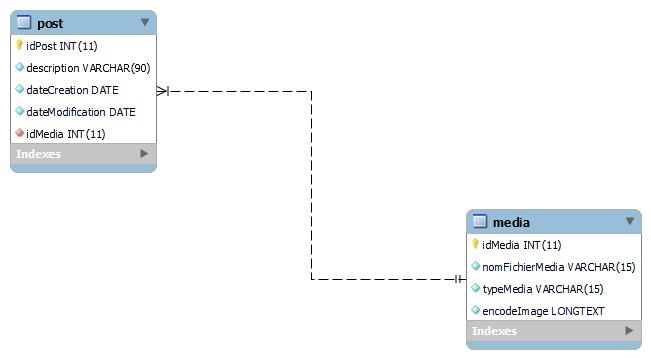
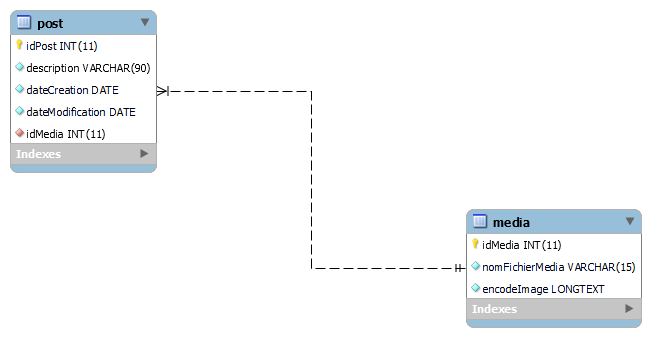
13.02.23

diff --git a/m152/chapitre2/functions.php b/m152/chapitre2/functions.php
@@ -76,7 +76,7 @@ function getAllPosts()
  * @param string $nom nom du budget
  * @param int $montant montant du budget
  */
-function addPost($description, $dateCreation, $idMedia)
+function addPost($description, $dateCreation)
 {
 
     $sql = "INSERT INTO `portfolio_img`.`post` (`description`,`dateCreation`) 
@@ -116,25 +116,23 @@ function deletePost($idPost)
 }
 
 /**
- * Sauvegarder une image pour un utilisateur donné sous forme de encodée 64bits
- *
- * @param string $InEmail 	L'email de l'utilisateur pour lequel on veut récupérer les images. 
- * @param binary $InContent Le contenu du fichier à sauvegarder
+ * Sauvegarder une image pour un utilisateur donné sous forme encodée 64bits
+ * @param string $image L'image que l'utilisateur à ajouter
  * @param string $InMimeType Le type mime du fichier à sauvegarder
- * @param string $InOriginalFilename Le nom original du fichier
+ * @param string $nomFichierMedia Le nom original du fichier
  * @return bool True si correctement sauvegardé, autrement False si une erreur est survenue
  * 
  * @remark Les images sont stockées directement dans un enregistrement de la base de données sous forme encodée 64bits
  */
-function SaveUserEnc64Image($, $InMimeType, $InOriginalFilename){
+function SaveUserEnc64Image($nomFichierMedia, $image , $InMimeType){
     // Insérer le contenu directement dans l'enregistrement de la base de données
-    $sql = "INSERT INTO `portfolio_img`.`media` (`nomFichierMedia`,`typeMedia`,`encodeImage`) VALUES(:n, :t, :e)";
+    $sql = "INSERT INTO `portfolio_img`.`media` (`nomFichierMedia`,`encodeImage`) VALUES(:n, :e)";
     $statement = EDatabase::prepare($sql);
     // Préparer la chaîne qui permet d'afficher directement l'image dans un tag img
-    $SrcEnc64 = 'data:'.$InMimeType.';base64,'.base64_encode($InImage);
+    $SrcEnc64 = 'data:'.$InMimeType.';base64,'.base64_encode($image);
 
     try {
-        $statement->execute(array(':c' => $SrcEnc64, ':o' => $InOriginalFilename, ':e' => $InEmail));
+        $statement->execute(array(':n' => $nomFichierMedia, ':e' => $SrcEnc64));
     }
     catch (PDOException $e) {
         echo 'Problème écriture dans la base de données: '.$e->getMessage();
@@ -147,21 +145,20 @@ function SaveUserEnc64Image($, $InMimeType, $InOriginalFilename){
    
                
  /**
- * Récupère toutes les images de l'utilisateur 
- * @param string $InEmail L'email de l'utilisateur pour lequel on veut récupérer les images. 
- * @return array Un tableau d'objet EBlobImage. False si une erreur est survenue
+ * Récupère toutes les images de l'utilisateur de la base de données
+ * @return array Un tableau d'objet EMedia. False si une erreur est survenue
  * 
  * @remark Les images sont stockées directement dans un enregistrement de la base de données sous forme encodée 64bits
  */
-function LoadUserEnc64Images($InEmail)
+function LoadUserEnc64Images()
 {
-	// On crée un tableau qui va contenir les objets EEncImage
+	// On crée un tableau qui va contenir les objets EMedia
 	$arr = array();
 
-    $s = "SELECT `base64_images`.`ID`, `base64_images`.`ENCODEDIMAGE`, `base64_images`.`ORIGINALFILENAME`, `base64_images`.`USERS_EMAIL` FROM `cfpt_images`.`base64_images` WHERE `base64_images`.`USERS_EMAIL` = :e";
+    $s = "SELECT * FROM `portfolio_img`.`media`";
 	$statement = EDatabase::prepare($s,array(PDO::ATTR_CURSOR => PDO::CURSOR_FWDONLY));
 	try {
-		$statement->execute(array(':e' => $InEmail));
+		$statement->execute();
 	}
 	catch (PDOException $e) {
         echo 'Problème de lecture de la base de données: '.$e->getMessage();
@@ -169,16 +166,17 @@ function LoadUserEnc64Images($InEmail)
 	}
 	// On parcoure les enregistrements 
 	while ($row=$statement->fetch(PDO::FETCH_ASSOC,PDO::FETCH_ORI_NEXT)){
-		// On crée l'objet EEncImage en l'initialisant avec les données provenant
+		// On crée l'objet EMedia en l'initialisant avec les données provenant
 		// de la base de données
-		$img = new EEncImage($InEmail, 
-        $row['ENCODEDIMAGE'], 
-        $row['ORIGINALFILENAME'], 
-        intval($row['ID']));
-		// On place l'objet EEncImage créé dans le tableau
+        $img = new EMedia(
+            intval($row['idMedia']),
+            $row['nomFichierMedia'],
+            $row['encodeImage']
+        );
+		// On place l'objet EMedia créé dans le tableau
 		array_push($arr, $img);
 	}        
-	// On retourne le tableau contenant la définition des images sous forme EEncImage
+	// On retourne le tableau contenant la définition des images sous forme EMedia
 	return $arr;
 }     
 

diff --git a/m152/chapitre2/class/media.php b/m152/chapitre2/class/media.php
@@ -12,13 +12,12 @@ class EMedia
      * @param string $InNom le nom du budget
      * @param integer $InMontant le montant du budget
      */
-    public function __construct($InIdMedia, $InNomFichierMedia = "", $InTypeMedia = "", $InImage = "")
+    public function __construct($InIdMedia, $InNomFichierMedia = "", $InEncodeImage = "")
     {
 
         $this->idMedia = $InIdMedia;
         $this->nomFichierMedia = $InNomFichierMedia;
-        $this->typeMedia = $InTypeMedia;
-        $this->image = $InImage
+        $this->encodeImage = $InEncodeImage;
     }
 
 
@@ -32,11 +31,7 @@ class EMedia
      */
     public $nomFichierMedia;
     /**
-     * @var string type du fichier contenant le média
-     */
-    public $typeMedia;
-    /**
      * @var string l'image encodé en base 64
      */
-    public $image
+    public $encodeImage;
 }

diff --git a/m152/chapitre2/poste.php b/m152/chapitre2/poste.php
@@ -25,6 +25,7 @@ Détail : Va ajouter les postes de l'utilisateur dans la page home. Le poste con
 
     $img = "";
     $description = "";
+    
 
     $colImg = "";
     $colDescription = "";
@@ -81,11 +82,12 @@ Détail : Va ajouter les postes de l'utilisateur dans la page home. Le poste con
         <input type="submit" name="poster" value="Poster">
         <?php
 
+
         // On va afficher après le formulaire les images de l'utilisateur
-        $imgs = LoadUserEnc64Images($email);
+        $imgs = LoadUserEnc64Images();
         foreach ($imgs as $img) {
             echo '';
-            echo $img->OriginalFilename;
+            echo $img->nomFichierMedia;
             echo '';
             // On affiche directement dans l’attribut src d’un tag 
             echo '';
